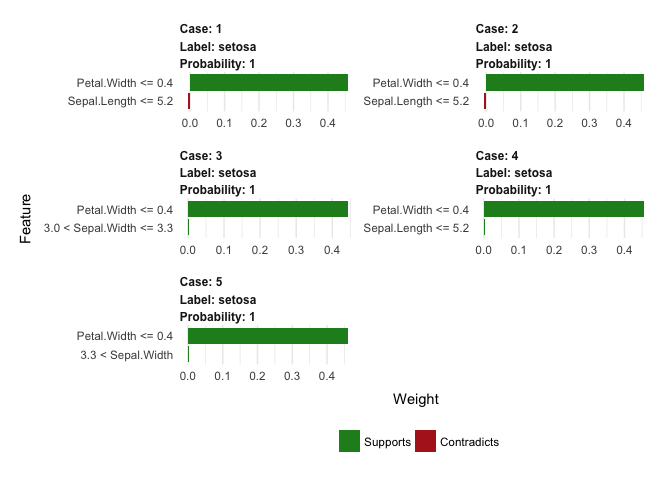
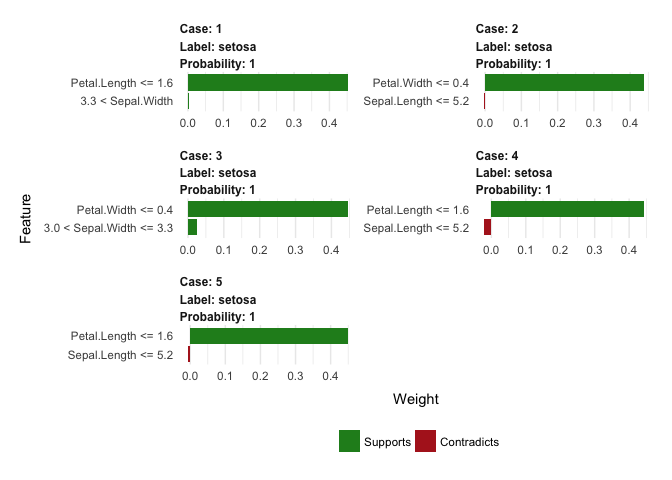
update readme

diff --git a/README.md b/README.md
@@ -9,7 +9,7 @@ lime <img src="man/figures/lime_logo.jpg" align="right" />
 >
 > Whose models were simply sublime,
 >
-> It gave explanations for it's variations,
+> It gave explanations for their variations,
 >
 > one observation at a time.
 
@@ -54,22 +54,22 @@ explanation <- explain(iris_test, explainer, n_labels = 1, n_features = 2)
 # output from the model.
 head(explanation)
 #>       model_type case  label label_prob  model_r2 model_intercept
-#> 1 classification    1 setosa          1 0.4178344       0.2317790
-#> 2 classification    1 setosa          1 0.4178344       0.2317790
-#> 3 classification    2 setosa          1 0.4060792       0.2339704
-#> 4 classification    2 setosa          1 0.4060792       0.2339704
-#> 5 classification    3 setosa          1 0.3810840       0.2502586
-#> 6 classification    3 setosa          1 0.3810840       0.2502586
+#> 1 classification    1 setosa          1 0.3809782       0.2509266
+#> 2 classification    1 setosa          1 0.3809782       0.2509266
+#> 3 classification    2 setosa          1 0.3726965       0.2434589
+#> 4 classification    2 setosa          1 0.3726965       0.2434589
+#> 5 classification    3 setosa          1 0.3811006       0.2376631
+#> 6 classification    3 setosa          1 0.3811006       0.2376631
 #>   model_prediction      feature feature_value feature_weight
-#> 1        0.6842126 Sepal.Length           5.1   -0.006198107
-#> 2        0.6842126  Petal.Width           0.2    0.458631778
-#> 3        0.6849851 Sepal.Length           4.9   -0.007179831
-#> 4        0.6849851  Petal.Width           0.2    0.458194556
-#> 5        0.6971393  Sepal.Width           3.2    0.002754042
-#> 6        0.6971393  Petal.Width           0.2    0.444126656
+#> 1        0.7060955  Sepal.Width           3.5    0.002079451
+#> 2        0.7060955 Petal.Length           1.4    0.453089418
+#> 3        0.6781576 Sepal.Length           4.9   -0.003561341
+#> 4        0.6781576  Petal.Width           0.2    0.438260042
+#> 5        0.7096458  Sepal.Width           3.2    0.025174931
+#> 6        0.7096458  Petal.Width           0.2    0.446807773
 #>               feature_desc               data prediction
-#> 1      Sepal.Length <= 5.2 5.1, 3.5, 1.4, 0.2    1, 0, 0
-#> 2       Petal.Width <= 0.4 5.1, 3.5, 1.4, 0.2    1, 0, 0
+#> 1        3.3 < Sepal.Width 5.1, 3.5, 1.4, 0.2    1, 0, 0
+#> 2      Petal.Length <= 1.6 5.1, 3.5, 1.4, 0.2    1, 0, 0
 #> 3      Sepal.Length <= 5.2 4.9, 3.0, 1.4, 0.2    1, 0, 0
 #> 4       Petal.Width <= 0.4 4.9, 3.0, 1.4, 0.2    1, 0, 0
 #> 5 3.0 < Sepal.Width <= 3.3 4.7, 3.2, 1.3, 0.2    1, 0, 0
